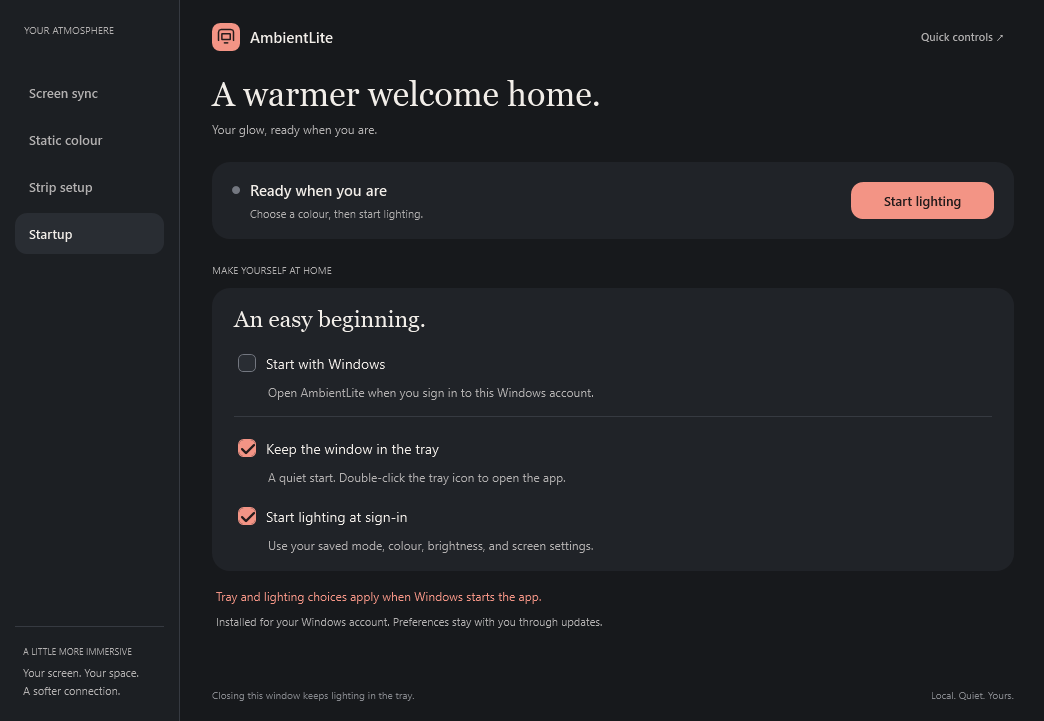
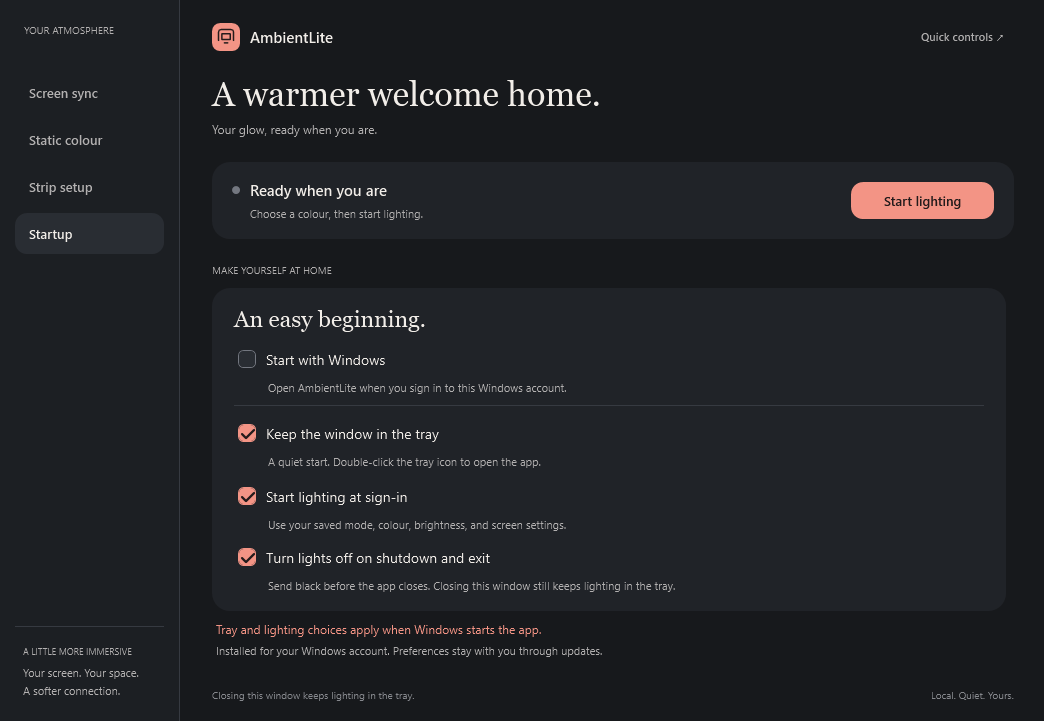
Turn the strip off during Windows shutdown and app exit

Changed region(s): [[0.2146, 0.4882, 0.6437, 0.9154]]

diff --git a/AmbientLite.xaml b/AmbientLite.xaml
@@ -298,26 +298,28 @@
    <Grid Grid.Row="3" Margin="0,12,0,0"><Grid.ColumnDefinitions><ColumnDefinition Width="Auto"/><ColumnDefinition/></Grid.ColumnDefinitions><CheckBox x:Name="CompatibilityCapture" Content="Compatibility capture"/><TextBlock Grid.Column="1" Text="Only if smooth capture doesn't work. May cause desktop hitches." Foreground="#B2B0B0" FontSize="11" TextWrapping="Wrap" Margin="18,0,0,0" VerticalAlignment="Center"/></Grid>
   </Grid>
   <Grid Grid.Row="2" x:Name="StartupPage" Visibility="Collapsed">
-   <StackPanel>
+   <ScrollViewer VerticalScrollBarVisibility="Auto" HorizontalScrollBarVisibility="Disabled" Padding="0,0,8,0"><StackPanel>
     <TextBlock Text="MAKE YOURSELF AT HOME" FontSize="10" Foreground="#B2B0B0" Margin="0,0,0,12"/>
     <Border Background="#202328" CornerRadius="18" Padding="22,18">
      <StackPanel>
-      <TextBlock Text="An easy beginning." FontFamily="Georgia" FontSize="23" Margin="0,0,0,12"/>
+      <TextBlock Text="An easy beginning." FontFamily="Georgia" FontSize="23" Margin="0,0,0,8"/>
       <CheckBox x:Name="StartWithWindows" Content="Start with Windows"/>
-      <TextBlock Text="Open AmbientLite when you sign in to this Windows account." FontSize="12" Foreground="#B2B0B0" Margin="34,0,0,16" TextWrapping="Wrap"/>
-      <Border BorderBrush="#363A41" BorderThickness="0,1,0,0" Padding="0,12,0,0">
+      <TextBlock Text="Open AmbientLite when you sign in to this Windows account." FontSize="11" Foreground="#B2B0B0" Margin="34,0,0,10" TextWrapping="Wrap"/>
+      <Border BorderBrush="#363A41" BorderThickness="0,1,0,0" Padding="0,8,0,0">
        <StackPanel>
         <CheckBox x:Name="TrayAtStartup" Content="Keep the window in the tray"/>
-        <TextBlock Text="A quiet start. Double-click the tray icon to open the app." FontSize="12" Foreground="#B2B0B0" Margin="34,0,0,12" TextWrapping="Wrap"/>
+        <TextBlock Text="A quiet start. Double-click the tray icon to open the app." FontSize="11" Foreground="#B2B0B0" Margin="34,0,0,8" TextWrapping="Wrap"/>
         <CheckBox x:Name="LightingAtStartup" Content="Start lighting at sign-in"/>
-        <TextBlock Text="Use your saved mode, colour, brightness, and screen settings." FontSize="12" Foreground="#B2B0B0" Margin="34,0,0,0" TextWrapping="Wrap"/>
+        <TextBlock Text="Use your saved mode, colour, brightness, and screen settings." FontSize="11" Foreground="#B2B0B0" Margin="34,0,0,0" TextWrapping="Wrap"/>
+        <CheckBox x:Name="OffAtExit" Content="Turn lights off on shutdown and exit" Margin="0,12,0,6"/>
+        <TextBlock Text="Send black before the app closes. Closing this window still keeps lighting in the tray." FontSize="11" Foreground="#B2B0B0" Margin="34,0,0,0" TextWrapping="Wrap"/>
        </StackPanel>
       </Border>
      </StackPanel>
     </Border>
-    <TextBlock x:Name="StartupStatus" Text="Tray and lighting choices apply when Windows starts the app." FontSize="12" Foreground="#F39485" TextWrapping="Wrap" Margin="4,17,4,0"/>
-    <TextBlock x:Name="StorageDetail" Text="Your preferences stay with you through updates." FontSize="11" Foreground="#B2B0B0" TextWrapping="Wrap" Margin="4,10,4,0"/>
-   </StackPanel>
+    <TextBlock x:Name="StartupStatus" Text="Tray and lighting choices apply when Windows starts the app." FontSize="12" Foreground="#F39485" TextWrapping="Wrap" Margin="4,10,4,0"/>
+    <TextBlock x:Name="StorageDetail" Text="Your preferences stay with you through updates." FontSize="11" Foreground="#B2B0B0" TextWrapping="Wrap" Margin="4,6,4,0"/>
+   </StackPanel></ScrollViewer>
   </Grid>
   <Grid Grid.Row="3" Margin="0,22,0,0"><TextBlock Text="Closing this window keeps lighting in the tray." FontSize="10" Foreground="#85878C"/><TextBlock x:Name="RunStats" Text="Local. Quiet. Yours." HorizontalAlignment="Right" FontSize="10" Foreground="#85878C"/></Grid>
  </Grid>

diff --git a/LightWindow.cs b/LightWindow.cs
@@ -36,11 +36,11 @@ sealed partial class LightWindow {
   loading=true;if(!renderingDocumentation)Load();SetupColours();loading=false;UpdateValues();
   compatibilityCapture.Checked+=(s,e)=>SaveIfValid();compatibilityCapture.Unchecked+=(s,e)=>SaveIfValid();
   brightness.ValueChanged+=(s,e)=>UpdateValues();smoothing.ValueChanged+=(s,e)=>UpdateValues();rate.ValueChanged+=(s,e)=>UpdateValues();topCount.TextChanged+=(s,e)=>UpdateLayout();sideCount.TextChanged+=(s,e)=>UpdateLayout();reverse.Checked+=(s,e)=>SaveIfValid();reverse.Unchecked+=(s,e)=>SaveIfValid();monitor.SelectionChanged+=(s,e)=>SaveIfValid();
-  Get<Button>("LightingNav").Click+=(s,e)=>Navigate("Lighting");Get<Button>("ColourNav").Click+=(s,e)=>Navigate("Colour");Get<Button>("SetupNav").Click+=(s,e)=>Navigate("Setup");Get<Button>("StartupNav").Click+=(s,e)=>Navigate("Startup");SetupStartup();
+  Get<Button>("LightingNav").Click+=(s,e)=>Navigate("Lighting");Get<Button>("ColourNav").Click+=(s,e)=>Navigate("Colour");Get<Button>("SetupNav").Click+=(s,e)=>Navigate("Setup");Get<Button>("StartupNav").Click+=(s,e)=>Navigate("Startup");SetupStartup();SetupShutdown();
   sync.Click+=async(s,e)=>{if(IsRunning)await Stop();else await Start(false);};test.Click+=async(s,e)=>await Start(true);
   tray=new Forms.NotifyIcon{Text="AmbientLite · Ready",Visible=!renderingDocumentation};SetIcon(false);SetupQuickControls();
   window.StateChanged+=(s,e)=>{if(window.WindowState==WindowState.Minimized)window.Hide();};
-  window.Closing+=(s,e)=>{if(!exiting){e.Cancel=true;SaveIfValid();window.Hide();}else{SaveIfValid();statsTimer.Stop();tray.Visible=false;var icon=tray.Icon;tray.Dispose();if(icon!=null)icon.Dispose();}};
+  window.Closing+=(s,e)=>{if(!exiting){e.Cancel=true;SaveIfValid();window.Hide();}else if(exitLighting!=null&&!exitLighting.IsCompleted){e.Cancel=true;}else{SaveIfValid();statsTimer.Stop();tray.Visible=false;var icon=tray.Icon;tray.Dispose();if(icon!=null)icon.Dispose();}};
   window.IsVisibleChanged+=(s,e)=>{Interlocked.Exchange(ref frameCount,0);if(window.IsVisible)statsTimer.Start();else statsTimer.Stop();};
   statsTimer=new DispatcherTimer{Interval=TimeSpan.FromSeconds(1)};statsTimer.Tick+=(s,e)=>{int count=Interlocked.Exchange(ref frameCount,0);Text("RunStats",IsRunning&&!testing?(liveMode==1?"Static colour  ·  USB connected":count+" fps  ·  "+(compatibilityCapture.IsChecked==true?"Compatibility capture":"GPU capture")):"Local. Quiet. Yours.");};statsTimer.Start();
   UpdateLayout();if(liveMode==1)Navigate("Colour");
@@ -54,16 +54,16 @@ sealed partial class LightWindow {
  void ChooseColour(Color color,string name){liveColour=(color.R<<16)|(color.G<<8)|color.B;string hex="#"+liveColour.ToString("X6");int known=Array.IndexOf(colourHex,hex);colourName=known>=0?colourNames[known]:name??"Custom colour";Text("ChosenName",colourName);Text("ChosenHex",hex);Get<System.Windows.Shapes.Ellipse>("ChosenDot").Fill=new SolidColorBrush(color);if(wheel!=null)wheel.Select(color);for(int i=0;i<swatches.Count;i++){swatches[i].BorderBrush=Brush(i==known?"#F39485":"#363A41");swatches[i].Background=Brush(i==known?"#393035":"#292D33");}Wake();SaveIfValid();UpdateQuick();}
  void UpdateValues(){liveBrightness=(int)Math.Round(brightness.Value);liveSmoothing=(int)Math.Round(smoothing.Value);liveRate=(int)Math.Round(rate.Value);Text("BrightnessValue",liveBrightness+"%");Text("SmoothingValue",liveSmoothing+"%");Text("RateValue",liveRate+" fps");Wake();SaveIfValid();UpdateQuick();}
  bool Layout(out int top,out int side){top=side=0;return int.TryParse(topCount.Text,out top)&&int.TryParse(sideCount.Text,out side)&&top>0&&side>0&&top<=254&&side<=126&&top+2*side<=254;}
- void UpdateLayout(){int t,s;bool valid=Layout(out t,out s);Text("LayoutSummary",valid?(t+2*s)+" lights · three sides":"Check strip setup");Text("SetupHelp",valid?"Pause lighting before changing the strip layout.":"Use positive whole numbers, with at most 254 lights in total.");if(!IsRunning)sync.IsEnabled=test.IsEnabled=valid;SaveIfValid();}
- void SaveIfValid(){if(renderingDocumentation||loading||monitor.SelectedIndex<0)return;int t,s;if(!Layout(out t,out s))return;try{AppEnvironment.Save(new[]{screens[monitor.SelectedIndex].DeviceName,liveRate.ToString(),liveBrightness.ToString(),liveSmoothing.ToString(),t.ToString(),s.ToString(),(reverse.IsChecked==true).ToString(),liveMode.ToString(),"#"+liveColour.ToString("X6"),startInTray.ToString(),startLighting.ToString(),(compatibilityCapture.IsChecked==true).ToString()});}catch(Exception ex){Text("RunStats","Settings could not be saved");Debug.WriteLine(ex.Message);}}
- void Load(){try{var a=File.ReadAllLines(settings);int index=Array.FindIndex(screens,s=>s.DeviceName==a[0]);if(index>=0)monitor.SelectedIndex=index;int v;if(int.TryParse(a[1],out v))rate.Value=Math.Max(5,Math.Min(60,v));if(int.TryParse(a[2],out v))brightness.Value=Math.Max(0,Math.Min(100,v));if(int.TryParse(a[3],out v))smoothing.Value=Math.Max(0,Math.Min(95,v));topCount.Text=a[4];sideCount.Text=a[5];reverse.IsChecked=bool.Parse(a[6]);if(a.Length>7)liveMode=a[7]=="1"?1:0;if(a.Length>8){var selected=(Color)ColorConverter.ConvertFromString(a[8]);liveColour=(selected.R<<16)|(selected.G<<8)|selected.B;}bool flag;if(a.Length>9&&bool.TryParse(a[9],out flag))startInTray=flag;if(a.Length>10&&bool.TryParse(a[10],out flag))startLighting=flag;if(a.Length>11&&bool.TryParse(a[11],out flag))compatibilityCapture.IsChecked=flag;}catch{}}
+ void UpdateLayout(){int t,s;bool valid=Layout(out t,out s);if(valid)configuredLights=t+2*s;Text("LayoutSummary",valid?(t+2*s)+" lights · three sides":"Check strip setup");Text("SetupHelp",valid?"Pause lighting before changing the strip layout.":"Use positive whole numbers, with at most 254 lights in total.");if(!IsRunning)sync.IsEnabled=test.IsEnabled=valid;SaveIfValid();}
+ void SaveIfValid(){if(renderingDocumentation||loading||monitor.SelectedIndex<0)return;int t,s;if(!Layout(out t,out s))return;try{AppEnvironment.Save(new[]{screens[monitor.SelectedIndex].DeviceName,liveRate.ToString(),liveBrightness.ToString(),liveSmoothing.ToString(),t.ToString(),s.ToString(),(reverse.IsChecked==true).ToString(),liveMode.ToString(),"#"+liveColour.ToString("X6"),startInTray.ToString(),startLighting.ToString(),(compatibilityCapture.IsChecked==true).ToString(),turnOffOnExit.ToString()});}catch(Exception ex){Text("RunStats","Settings could not be saved");Debug.WriteLine(ex.Message);}}
+ void Load(){try{var a=File.ReadAllLines(settings);int index=Array.FindIndex(screens,s=>s.DeviceName==a[0]);if(index>=0)monitor.SelectedIndex=index;int v;if(int.TryParse(a[1],out v))rate.Value=Math.Max(5,Math.Min(60,v));if(int.TryParse(a[2],out v))brightness.Value=Math.Max(0,Math.Min(100,v));if(int.TryParse(a[3],out v))smoothing.Value=Math.Max(0,Math.Min(95,v));topCount.Text=a[4];sideCount.Text=a[5];reverse.IsChecked=bool.Parse(a[6]);if(a.Length>7)liveMode=a[7]=="1"?1:0;if(a.Length>8){var selected=(Color)ColorConverter.ConvertFromString(a[8]);liveColour=(selected.R<<16)|(selected.G<<8)|selected.B;}bool flag;if(a.Length>9&&bool.TryParse(a[9],out flag))startInTray=flag;if(a.Length>10&&bool.TryParse(a[10],out flag))startLighting=flag;if(a.Length>11&&bool.TryParse(a[11],out flag))compatibilityCapture.IsChecked=flag;if(a.Length>12&&bool.TryParse(a[12],out flag))turnOffOnExit=flag;}catch{}}
  void State(bool running,bool connected,string title,string detail){sync.Content=running?"Pause lighting":"Start lighting";Get<System.Windows.Shapes.Ellipse>("StateDot").Fill=Brush(connected?"#F39485":"#737780");Text("StateTitle",title);Text("StateDetail",detail);monitor.IsEnabled=topCount.IsEnabled=sideCount.IsEnabled=reverse.IsEnabled=compatibilityCapture.IsEnabled=!running;test.IsEnabled=!running;tray.Text=connected?"AmbientLite · Lighting active":"AmbientLite · Paused";SetIcon(connected);UpdateQuick();}
  void SetIcon(bool active){using(var bmp=new Drawing.Bitmap(32,32))using(var g=Drawing.Graphics.FromImage(bmp)){g.SmoothingMode=Drawing.Drawing2D.SmoothingMode.AntiAlias;g.Clear(Drawing.Color.Transparent);using(var p=new Drawing.Pen(active?Drawing.Color.FromArgb(243,148,133):Drawing.Color.FromArgb(178,176,176),3)){g.DrawLines(p,new[]{new Drawing.Point(3,24),new Drawing.Point(3,6),new Drawing.Point(29,6),new Drawing.Point(29,24)});g.DrawRectangle(p,8,11,16,12);g.DrawLine(p,12,28,20,28);}IntPtr h=bmp.GetHicon();try{var old=tray.Icon;using(var temp=Drawing.Icon.FromHandle(h))tray.Icon=(Drawing.Icon)temp.Clone();if(old!=null)old.Dispose();}finally{DestroyIcon(h);}}}
  [System.Runtime.InteropServices.DllImport("user32.dll")]static extern bool DestroyIcon(IntPtr icon);
- async Task Start(bool solid){if(cancellation!=null)return;if(Process.GetProcessesByName("SyncLight").Length>0){State(false,false,"SyncLight is still open","Exit SyncLight from its tray icon, then start lighting here.");return;}int top,side;if(!Layout(out top,out side)){Navigate("Setup");return;}var bounds=screens[monitor.SelectedIndex].Bounds;bool rev=reverse.IsChecked==true;testing=solid;var tokenSource=new CancellationTokenSource();cancellation=tokenSource;var token=tokenSource.Token;State(true,false,"Connecting to your lights…","Getting everything ready.");sync.IsEnabled=false;UpdateQuick();
+ async Task Start(bool solid){if(exiting||cancellation!=null)return;if(Process.GetProcessesByName("SyncLight").Length>0){State(false,false,"SyncLight is still open","Exit SyncLight from its tray icon, then start lighting here.");return;}int top,side;if(!Layout(out top,out side)){Navigate("Setup");return;}var bounds=screens[monitor.SelectedIndex].Bounds;bool rev=reverse.IsChecked==true;testing=solid;var tokenSource=new CancellationTokenSource();cancellation=tokenSource;var token=tokenSource.Token;State(true,false,"Connecting to your lights…","Getting everything ready.");sync.IsEnabled=false;UpdateQuick();
   bool useCompatibility=compatibilityCapture.IsChecked==true;
   worker=Task.Run(async()=>{var devices=Hid.Find();if(devices.Length!=1)throw new IOException(devices.Length==0?"Plug in your light strip and try again.":"More than one light controller is connected.");using(var hid=new Hid(devices[0])){Capture capture=null;try{
-   await window.Dispatcher.InvokeAsync(()=>{if(solid)State(true,true,"A little blue for you.","Checking every light on the strip.");else ActiveState();sync.IsEnabled=true;UpdateQuick();});
+   await window.Dispatcher.InvokeAsync(()=>{if(solid)State(true,true,"A little blue for you.","Checking every light on the strip.");else ActiveState();sync.IsEnabled=true;UpdateQuick();},DispatcherPriority.Normal,token);
    var last=new Drawing.Color[top+side*2];byte[] previous=null;int seq=1;var sent=Stopwatch.StartNew();
    while(!token.IsCancellationRequested){var tick=Stopwatch.StartNew();Drawing.Color[] colors;if(solid)colors=Enumerable.Repeat(Drawing.Color.FromArgb(0,0,40),last.Length).ToArray();else if(liveMode==1){if(capture!=null){capture.Dispose();capture=null;}int rgb=liveColour;double power=liveBrightness/100.0;var chosen=Drawing.Color.FromArgb((int)(((rgb>>16)&255)*power),(int)(((rgb>>8)&255)*power),(int)((rgb&255)*power));colors=Enumerable.Repeat(chosen,last.Length).ToArray();}else{if(capture==null)capture=new Capture(useCompatibility);if(!capture.Grab(bounds)){await Task.Delay(Math.Max(1,1000/liveRate),token);continue;}colors=capture.Edge(side,top,rev);double power=liveBrightness/100.0,blend=1-liveSmoothing/100.0;for(int i=0;i<colors.Length;i++){var c=colors[i];colors[i]=Drawing.Color.FromArgb((int)(last[i].R*(1-blend)+c.R*power*blend),(int)(last[i].G*(1-blend)+c.G*power*blend),(int)(last[i].B*(1-blend)+c.B*power*blend));}last=colors;}
     var packet=Protocol.Frame(colors,seq);bool changed=previous==null;for(int i=6;!changed&&i<packet.Length-1;i++)if(packet[i]!=previous[i])changed=true;if(changed||sent.ElapsedMilliseconds>=1000){await hid.Send(packet,token);previous=packet;sent.Restart();seq=seq%254+1;}if(liveMode==0)Interlocked.Increment(ref frameCount);if(solid)break;if(liveMode==1)await changes.WaitAsync(token);else await Task.Delay(Math.Max(1,1000/liveRate-(int)tick.ElapsedMilliseconds),token);

diff --git a/AmbientLite.cs b/AmbientLite.cs
@@ -81,6 +81,7 @@ static class Protocol {
 static class Program {
  [STAThread] static int Main(string[] args){Native.SetProcessDPIAware();LifecycleTrace.Write("Main entered");try{
   if(args.Contains("--shutdown"))return AppSession.Shutdown();
+  if(args.Contains("--simulate-session-end"))return AppSession.SimulateSessionEnd()?0:1;
   if(args.Contains("--capture-profile"))return CaptureDiagnostics.Run(args);
   if(args.Contains("--capture-self-test")){DesktopCapture.SelfTest();return 0;}
   if(args.Contains("--licenses")){foreach(string name in new[]{"Ambient.License","Ambient.SwooshLicense"})using(var reader=new StreamReader(System.Reflection.Assembly.GetExecutingAssembly().GetManifestResourceStream(name)))Console.WriteLine(reader.ReadToEnd());return 0;}
@@ -90,6 +91,6 @@ static class Program {
   if(args.Contains("--blue-test")){if(Process.GetProcessesByName("SyncLight").Length>0)throw new Exception("Close SyncLight first");var paths=Hid.Find();if(paths.Length!=1)throw new Exception("Expected one controller");using(var hid=new Hid(paths[0]))hid.Send(Protocol.Frame(Enumerable.Repeat(Color.FromArgb(0,0,40),71).ToArray(),2),CancellationToken.None).GetAwaiter().GetResult();Console.WriteLine("Dim blue frame sent to all 71 LEDs");return 0;}
   if(args.Contains("--benchmark")||args.Contains("--hardware-benchmark")){bool send=args.Contains("--hardware-benchmark");if(send&&Process.GetProcessesByName("SyncLight").Length>0)throw new Exception("Close SyncLight first");Hid hid=null;if(send){var paths=Hid.Find();if(paths.Length!=1)throw new Exception("Expected one controller");hid=new Hid(paths[0]);}try{var screen=Screen.AllScreens.FirstOrDefault(s=>s.DeviceName.EndsWith("DISPLAY2"))??Screen.PrimaryScreen;var proc=Process.GetCurrentProcess();var cpu=proc.TotalProcessorTime;var watch=Stopwatch.StartNew();int frames=0;using(var c=new Capture(args.Contains("--compatibility"))){while(watch.Elapsed.TotalSeconds<20){var frame=Stopwatch.StartNew();if(c.Grab(screen.Bounds)){var packet=Protocol.Frame(c.Edge(15,41,true),frames%254+1);if(hid!=null)hid.Send(packet,CancellationToken.None).GetAwaiter().GetResult();frames++;}Thread.Sleep(Math.Max(1,50-(int)frame.ElapsedMilliseconds));}}proc.Refresh();Console.WriteLine("Frames="+frames+" USB="+send+" CPU="+((proc.TotalProcessorTime-cpu).TotalSeconds/watch.Elapsed.TotalSeconds/Environment.ProcessorCount*100).ToString("F2")+"% WorkingSetMB="+(proc.WorkingSet64/1048576.0).ToString("F1"));return 0;}finally{if(hid!=null)hid.Dispose();}}
   int renderAt=Array.IndexOf(args,"--render-docs");if(renderAt>=0){if(renderAt+1>=args.Length)throw new ArgumentException("Provide an image output directory");var app=new System.Windows.Application();var ui=new LightWindow();ui.Window.Loaded+=(sender,e)=>ui.Window.Dispatcher.BeginInvoke(new Action(()=>ui.RenderDocumentation(args[renderAt+1])),System.Windows.Threading.DispatcherPriority.ContextIdle);app.Run(ui.Window);return 0;}
-  bool created;using(var mutex=new Mutex(true,AppSession.MutexName,out created)){if(!created){if(!args.Contains("--startup")){if(!AppSession.Activate())MessageBox.Show("AmbientLite is already running. Look in the tray.");}return 0;}try{LifecycleTrace.Write("Instance mutex acquired; creating UI");var app=new System.Windows.Application();app.ShutdownMode=System.Windows.ShutdownMode.OnMainWindowClose;var ui=new LightWindow();LifecycleTrace.Write("UI created");using(var session=new AppSession(ui.Activate,ui.RequestExit))app.Run(ui.Window);LifecycleTrace.Write("UI loop exited");}finally{mutex.ReleaseMutex();}}return 0;
+  bool created;using(var mutex=new Mutex(true,AppSession.MutexName,out created)){if(!created){if(!args.Contains("--startup")){if(!AppSession.Activate())MessageBox.Show("AmbientLite is already running. Look in the tray.");}return 0;}try{LifecycleTrace.Write("Instance mutex acquired; creating UI");var app=new System.Windows.Application();app.ShutdownMode=System.Windows.ShutdownMode.OnMainWindowClose;var ui=new LightWindow();LifecycleTrace.Write("UI created");using(var session=new AppSession(ui.Activate,ui.RequestExit,ui.RequestSessionEndTest))app.Run(ui.Window);LifecycleTrace.Write("UI loop exited");}finally{mutex.ReleaseMutex();}}return 0;
  }catch(Exception ex){LifecycleTrace.Write(ex.ToString());Console.Error.WriteLine(ex);return 1;}}
 }

diff --git a/AppEnvironment.cs b/AppEnvironment.cs
@@ -9,11 +9,11 @@ using Microsoft.Win32;
 [assembly: AssemblyProduct("AmbientLite")]
 [assembly: AssemblyCompany("AlbinoPriest")]
 [assembly: AssemblyCopyright("Copyright © 2026 AlbinoPriest")]
-[assembly: AssemblyVersion("0.3.0.0")]
-[assembly: AssemblyFileVersion("0.3.0.0")]
+[assembly: AssemblyVersion("0.3.1.0")]
+[assembly: AssemblyFileVersion("0.3.1.0")]
 
 static class AppEnvironment {
- public const string Version="0.3.0";
+ public const string Version="0.3.1";
  public static readonly string Executable=Assembly.GetExecutingAssembly().Location;
  public static readonly bool Installed=File.Exists(Path.Combine(AppDomain.CurrentDomain.BaseDirectory,"installed.marker"));
  public static readonly string Settings=Path.Combine(Installed?Path.Combine(Environment.GetFolderPath(Environment.SpecialFolder.LocalApplicationData),"AmbientLite"):AppDomain.CurrentDomain.BaseDirectory,"settings.txt");
@@ -46,16 +46,18 @@ static class StartupRegistration {
 // Named events wake the UI only when another launch or the installer needs it.
 sealed class AppSession : IDisposable {
  public const string MutexName=@"Local\AmbientLite.Robobloq";
- const string ShowEvent=@"Local\AmbientLite.Show",ExitEvent=@"Local\AmbientLite.Exit";
- EventWaitHandle show,exit; RegisteredWaitHandle showWait,exitWait;
- public AppSession(Action activate,Action quit):this(activate,quit,ShowEvent,ExitEvent){}
- internal AppSession(Action activate,Action quit,string showName,string exitName){
+ const string ShowEvent=@"Local\AmbientLite.Show",ExitEvent=@"Local\AmbientLite.Exit",SessionEndEvent=@"Local\AmbientLite.SessionEndTest";
+ EventWaitHandle show,exit,sessionEnd; RegisteredWaitHandle showWait,exitWait,sessionEndWait;
+ public AppSession(Action activate,Action quit,Action endSession=null):this(activate,quit,ShowEvent,ExitEvent,endSession){}
+ internal AppSession(Action activate,Action quit,string showName,string exitName,Action endSession=null){
   show=new EventWaitHandle(false,EventResetMode.AutoReset,showName);exit=new EventWaitHandle(false,EventResetMode.AutoReset,exitName);
   showWait=ThreadPool.RegisterWaitForSingleObject(show,(s,t)=>activate(),null,Timeout.Infinite,false);
   exitWait=ThreadPool.RegisterWaitForSingleObject(exit,(s,t)=>quit(),null,Timeout.Infinite,false);
+  if(endSession!=null){sessionEnd=new EventWaitHandle(false,EventResetMode.AutoReset,SessionEndEvent);sessionEndWait=ThreadPool.RegisterWaitForSingleObject(sessionEnd,(s,t)=>endSession(),null,Timeout.Infinite,false);}
   LifecycleTrace.Write("Shutdown handlers ready");
  }
  public static bool Activate(){return Signal(ShowEvent);}
+ public static bool SimulateSessionEnd(){return Signal(SessionEndEvent);}
  static bool Signal(string name){try{using(var handle=EventWaitHandle.OpenExisting(name)){handle.Set();return true;}}catch(WaitHandleCannotBeOpenedException){return false;}}
  public static int Shutdown(){return Shutdown(MutexName,ExitEvent,TimeSpan.FromSeconds(30));}
  internal static int Shutdown(string mutexName,string exitName,TimeSpan timeout){
@@ -76,5 +78,5 @@ sealed class AppSession : IDisposable {
   }
  }
  static bool WaitForExit(Mutex mutex,int milliseconds){try{if(!mutex.WaitOne(milliseconds))return false;}catch(AbandonedMutexException){}mutex.ReleaseMutex();return true;}
- public void Dispose(){showWait.Unregister(null);exitWait.Unregister(null);show.Dispose();exit.Dispose();}
+ public void Dispose(){showWait.Unregister(null);exitWait.Unregister(null);show.Dispose();exit.Dispose();if(sessionEndWait!=null)sessionEndWait.Unregister(null);if(sessionEnd!=null)sessionEnd.Dispose();}
 }

diff --git a/tests/ShutdownTests.cs b/tests/ShutdownTests.cs
@@ -1,0 +1,35 @@
+using System;
+using System.Diagnostics;
+using System.Threading;
+using System.Threading.Tasks;
+
+static class ShutdownTests {
+ static void Assert(bool value,string message){if(!value)throw new Exception(message);}
+ sealed class NoUiPump : SynchronizationContext {public override void Post(SendOrPostCallback callback,object state){throw new Exception("Shutdown tried to use the blocked UI dispatcher.");}}
+ public static void Run(){
+  var old=SynchronizationContext.Current;SynchronizationContext.SetSynchronizationContext(new NoUiPump());
+  try{
+   var worker=new TaskCompletionSource<bool>();int writes=0;bool cancelled=false;
+   bool complete=ShutdownLighting.RunAsync(worker.Task,()=>{cancelled=true;worker.SetCanceled();},token=>{Assert(worker.Task.IsCompleted,"Blackout raced the lighting worker.");Interlocked.Increment(ref writes);return Task.FromResult(true);},1000).GetAwaiter().GetResult();
+   Assert(complete&&cancelled&&writes==1,"Orderly shutdown did not cancel capture before blacking out.");
+
+   var blocked=new TaskCompletionSource<bool>();int lateWrites=0;var watch=Stopwatch.StartNew();
+   complete=ShutdownLighting.RunAsync(blocked.Task,()=>{},token=>{Interlocked.Increment(ref lateWrites);return Task.FromResult(true);},100).GetAwaiter().GetResult();
+   Assert(!complete&&watch.Elapsed.TotalSeconds<3,"An unresponsive worker held up shutdown.");
+   blocked.SetResult(true);Thread.Sleep(100);Assert(lateWrites==0,"Blackout ran after its deadline.");
+
+   var failed=new TaskCompletionSource<bool>();failed.SetException(new Exception("capture device lost"));int recoveryWrites=0;
+   complete=ShutdownLighting.RunAsync(failed.Task,null,token=>{Interlocked.Increment(ref recoveryWrites);return Task.FromResult(true);},1000).GetAwaiter().GetResult();
+   Assert(complete&&recoveryWrites==1,"A failed capture worker prevented the off command.");
+
+   bool outputCancelled=false;watch.Restart();
+   complete=ShutdownLighting.RunAsync(null,null,async token=>{try{await Task.Delay(10000,token).ConfigureAwait(false);}catch(OperationCanceledException){outputCancelled=true;throw;}},100).GetAwaiter().GetResult();
+   Assert(!complete&&watch.Elapsed.TotalSeconds<3,"An unresponsive device held up shutdown.");
+   Thread.Sleep(100);Assert(outputCancelled,"Off command did not receive cancellation.");
+
+   complete=ShutdownLighting.RunAsync(Task.FromResult(true),null,null,1000).GetAwaiter().GetResult();
+   Assert(complete,"Opting out of blackout should still allow a clean exit.");
+  }finally{SynchronizationContext.SetSynchronizationContext(old);}
+  Console.WriteLine("Shutdown ordering, blocked-UI safety, deadlines, device cancellation, and opt-out checks passed.");
+ }
+}

diff --git a/ShutdownControls.cs b/ShutdownControls.cs
@@ -1,0 +1,46 @@
+using System;
+using System.Diagnostics;
+using System.IO;
+using System.Linq;
+using System.Threading;
+using System.Threading.Tasks;
+using System.Windows;
+using System.Windows.Controls;
+using System.Windows.Threading;
+using Drawing=System.Drawing;
+
+sealed partial class LightWindow {
+ bool turnOffOnExit=true;int configuredLights=71;CheckBox offAtExit;Task<bool> exitLighting;
+ void SetupShutdown(){
+  offAtExit=Get<CheckBox>("OffAtExit");offAtExit.IsChecked=turnOffOnExit;
+  offAtExit.Checked+=(s,e)=>{turnOffOnExit=true;SaveIfValid();};offAtExit.Unchecked+=(s,e)=>{turnOffOnExit=false;SaveIfValid();};
+  if(!renderingDocumentation)Application.Current.SessionEnding+=(s,e)=>PrepareForWindowsShutdown();
+ }
+ Task<bool> PrepareExitLighting(){
+  if(exitLighting!=null)return exitLighting;
+  var source=cancellation;var running=worker;int count=configuredLights;
+  Func<CancellationToken,Task> blackout=turnOffOnExit?(Func<CancellationToken,Task>)(token=>SendLightsOff(count,token)):null;
+  exitLighting=ShutdownLighting.RunAsync(running,()=>{if(source!=null)source.Cancel();},blackout,ShutdownLighting.BudgetMilliseconds);
+  return exitLighting;
+ }
+ static async Task SendLightsOff(int count,CancellationToken token){
+  token.ThrowIfCancellationRequested();
+  if(Process.GetProcessesByName("SyncLight").Length>0)throw new IOException("SyncLight is still running; leaving its output alone.");
+  var paths=Hid.Find();if(paths.Length!=1)throw new IOException("A single compatible controller is not connected.");
+  token.ThrowIfCancellationRequested();
+  using(var hid=new Hid(paths[0])){
+   var black=Enumerable.Repeat(Drawing.Color.Black,count).ToArray();
+   // Two different sequence numbers also cover a controller that ignores a repeat.
+   await hid.Send(Protocol.Frame(black,253),token).ConfigureAwait(false);
+   await hid.Send(Protocol.Frame(black,254),token).ConfigureAwait(false);
+  }
+  LifecycleTrace.Write("Lights-off frames sent for "+count+" LEDs");
+ }
+ void PrepareForWindowsShutdown(){
+  LifecycleTrace.Write("Windows session ending");exiting=true;HideQuick();SaveIfValid();
+  // The worker's pending dispatcher operation is cancellable; this bounded wait
+  // does not need the blocked UI thread to finish capture or send the black frame.
+  try{PrepareExitLighting().GetAwaiter().GetResult();}catch(Exception ex){LifecycleTrace.Write("Session cleanup: "+ex.Message);}
+ }
+ public void RequestSessionEndTest(){window.Dispatcher.BeginInvoke(new Action(()=>{PrepareForWindowsShutdown();window.Close();}),DispatcherPriority.ContextIdle);}
+}

diff --git a/ShutdownLighting.cs b/ShutdownLighting.cs
@@ -1,0 +1,27 @@
+using System;
+using System.Threading;
+using System.Threading.Tasks;
+
+// The Windows session-ending callback cannot await the UI dispatcher. Stop and
+// USB cleanup run independently, with a deadline so lighting never holds up Windows.
+static class ShutdownLighting {
+ public const int BudgetMilliseconds=1500;
+ public static async Task<bool> RunAsync(Task worker,Action cancel,Func<CancellationToken,Task> blackout,int budgetMilliseconds){
+  using(var deadline=new CancellationTokenSource()){
+   var token=deadline.Token;deadline.CancelAfter(budgetMilliseconds);
+   var cleanup=Task.Run(async()=>{
+    try{
+     if(cancel!=null)try{cancel();}catch(ObjectDisposedException){}
+     if(worker!=null)try{await worker.ConfigureAwait(false);}catch(Exception ex){LifecycleTrace.Write("Lighting worker ended: "+ex.Message);}
+     token.ThrowIfCancellationRequested();
+     if(blackout!=null)await blackout(token).ConfigureAwait(false);
+     return true;
+    }catch(Exception ex){LifecycleTrace.Write("Exit lighting cleanup: "+ex.Message);return false;}
+   });
+   if(await Task.WhenAny(cleanup,Task.Delay(budgetMilliseconds)).ConfigureAwait(false)!=cleanup){
+    deadline.Cancel();LifecycleTrace.Write("Exit lighting cleanup reached its deadline");return false;
+   }
+   return await cleanup.ConfigureAwait(false);
+  }
+ }
+}

diff --git a/StartupControls.cs b/StartupControls.cs
@@ -34,5 +34,5 @@ sealed partial class LightWindow {
  void SaveStartupChoices(){if(refreshingStartup)return;startInTray=trayAtStartup.IsChecked==true;startLighting=lightingAtStartup.IsChecked==true;SaveIfValid();}
  public void Activate(){window.Dispatcher.BeginInvoke(new Action(Show));}
  public void RequestExit(){LifecycleTrace.Write("Quit callback queued");window.Dispatcher.BeginInvoke(new Action(async()=>await ExitApplication()),System.Windows.Threading.DispatcherPriority.ContextIdle);}
- async Task ExitApplication(){LifecycleTrace.Write("Closing requested");exiting=true;HideQuick();await Stop();LifecycleTrace.Write("Lighting worker stopped");window.Close();}
+ async Task ExitApplication(){if(exiting)return;LifecycleTrace.Write("Closing requested");exiting=true;HideQuick();await PrepareExitLighting();LifecycleTrace.Write("Lighting exit cleanup finished");window.Close();}
 }

diff --git a/tests/SessionTests.cs b/tests/SessionTests.cs
@@ -52,6 +52,7 @@ static class SessionTests {
    return AppSession.Shutdown(Name(args[1],"Mutex"),Name(args[1],"Exit"),TimeSpan.FromMilliseconds(int.Parse(args[2])));
   }
   DelayedHandler(false);DelayedHandler(true);
+  ShutdownTests.Run();
   string empty=@"Local\AmbientLite.SessionTest."+Guid.NewGuid().ToString("N");
   Assert(AppSession.Shutdown(Name(empty,"Mutex"),Name(empty,"Exit"),TimeSpan.FromSeconds(1))==0,"Stopping an absent instance should succeed.");
   Console.WriteLine("Delayed startup shutdown, timeout, and absent instance checks passed.");return 0;

diff --git a/README.md b/README.md
@@ -56,7 +56,7 @@ Click or right-click the tray icon for quick controls: change modes, adjust brig
 - **Double-click:** open the full app.
 - **Close or minimize the main window:** keep lighting running in the tray.
 - **Click outside the panel or press Escape:** dismiss quick controls.
-- **Exit in quick controls:** quit the app.
+- **Exit in quick controls:** quit the app and turn the strip off by default.
 
 The charcoal surfaces, coral accents, rounded controls, and serif headings follow the Tempo Soft design language from my [SwooshDrop](https://github.com/AlbinoPriest/swooshdrop) project.
 
@@ -109,6 +109,10 @@ Open **Startup** in the app and enable **Start with Windows**. It is off by defa
 
 These choices apply to Windows startup; opening the app yourself shows its window and waits for **Start lighting**. Registration is for the current Windows account only. You can also manage it in Windows Startup apps. Disable SyncLight's own startup entry to avoid both apps opening together.
 
+**Turn lights off on shutdown and exit** is enabled by default, independently of Windows startup. Before a normal Windows shutdown, sign-out, or full app exit, AmbientLite stops its lighting worker and sends black to the configured LEDs. This prevents the last colour staying visible when the USB port remains powered. Closing or minimizing the main window still keeps the app and lighting running in the tray; pausing still holds the last colour. Disable the option under **Startup** if you prefer to keep the last colour after exiting.
+
+The lights-off attempt has a 1.5-second deadline and does not cancel Windows shutdown. It requires a connected controller and cannot run after forced termination or power loss. It also cannot control a strip that resets itself after the app has stopped. AmbientLite leaves the controller alone if SyncLight is running.
+
 Portable users can enable the same feature, but must keep the executable at the same path. After moving it, open the app from the new folder and enable startup there. Disable startup before deleting a portable copy. The installer is the easier option if you want it running every day.
 
 ## Requirements and current limits
@@ -158,6 +162,7 @@ The Windows workflow compiles both executables and the installer, runs protocol 
 | `QuickControls.cs` | Tray panel and native title-bar colours |
 | `AppEnvironment.cs` / `StartupControls.cs` | Portable/installed storage, startup registration, and instance activation |
 | `installer.iss` / `build-setup.ps1` | Per-user installer, shortcuts, updates, and uninstall |
+| `ShutdownLighting.cs` / `ShutdownControls.cs` | Bounded stop-and-blackout cleanup and Windows session-ending handling |
 | `AmbientLite.xaml` / `TrayFlyout.xaml` | Main and tray interface |
 | `Documentation.cs` | Render UI images without starting USB output |
 
@@ -176,6 +181,10 @@ The Windows workflow compiles both executables and the installer, runs protocol 
 # Capture-only timing samples; no USB output. Close the running app first.
 .\AmbientLite.Diagnostics.exe --capture-profile --seconds 10
 .\AmbientLite.Diagnostics.exe --capture-profile --compatibility --seconds 10
+
+# Exercise the running app's shutdown handler; closes AmbientLite, not Windows.
+# Sends black to the strip if shutdown/exit lights-off is enabled.
+.\AmbientLite.Diagnostics.exe --simulate-session-end
 
 # Inspect matching controller/report size; no colour output
 .\AmbientLite.Diagnostics.exe --probe
